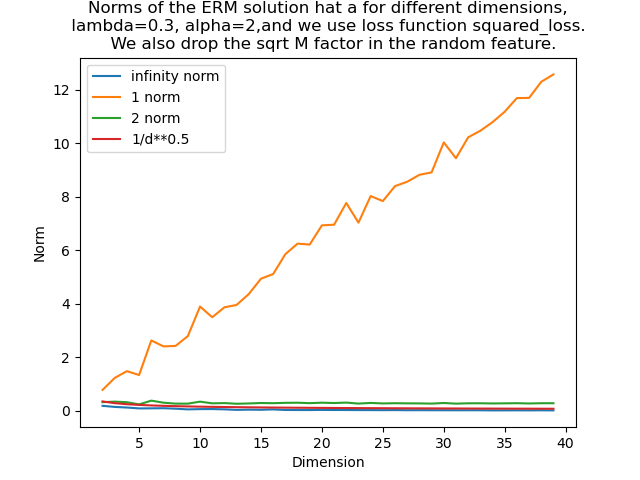
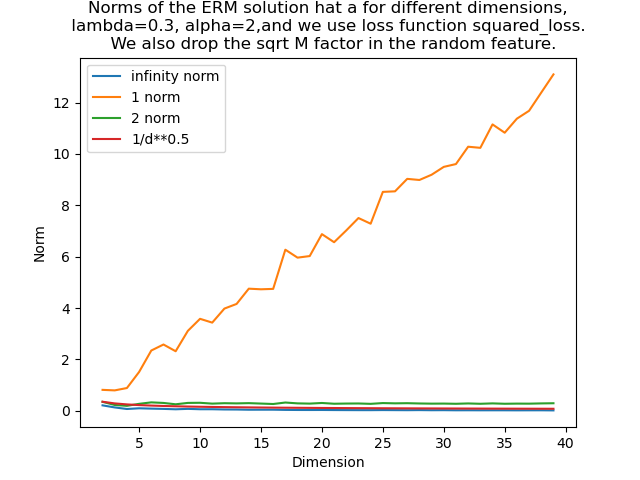
update photos

diff --git a/RandomFeatureTest.py b/RandomFeatureTest.py
@@ -71,16 +71,16 @@ if __name__ == "__main__":
     print("Shape of W:", W.shape)
     print("W:", W)
     # # Choose loss function and its gradient
-    # # For regression
-    loss_function = squared_loss
-    loss_function_grad = squared_loss_grad
-    y = y  # Use original y
+    # # # For regression
+    # loss_function = squared_loss
+    # loss_function_grad = squared_loss_grad
+    # y = y  # Use original y
     
     # For logistic regression (classification)
     # # Uncomment the following lines to use logistic loss
-    # loss_function = logistic_loss
-    # loss_function_grad = logistic_loss_grad
-    # y = y_classification  # Use binary labels
+    loss_function = logistic_loss
+    loss_function_grad = logistic_loss_grad
+    y = y_classification  # Use binary labels
 
     # Perform empirical risk minimization
     ba_opt, W = empirical_risk_minimization(X, y, W, lambda_reg, loss_function, loss_function_grad)
